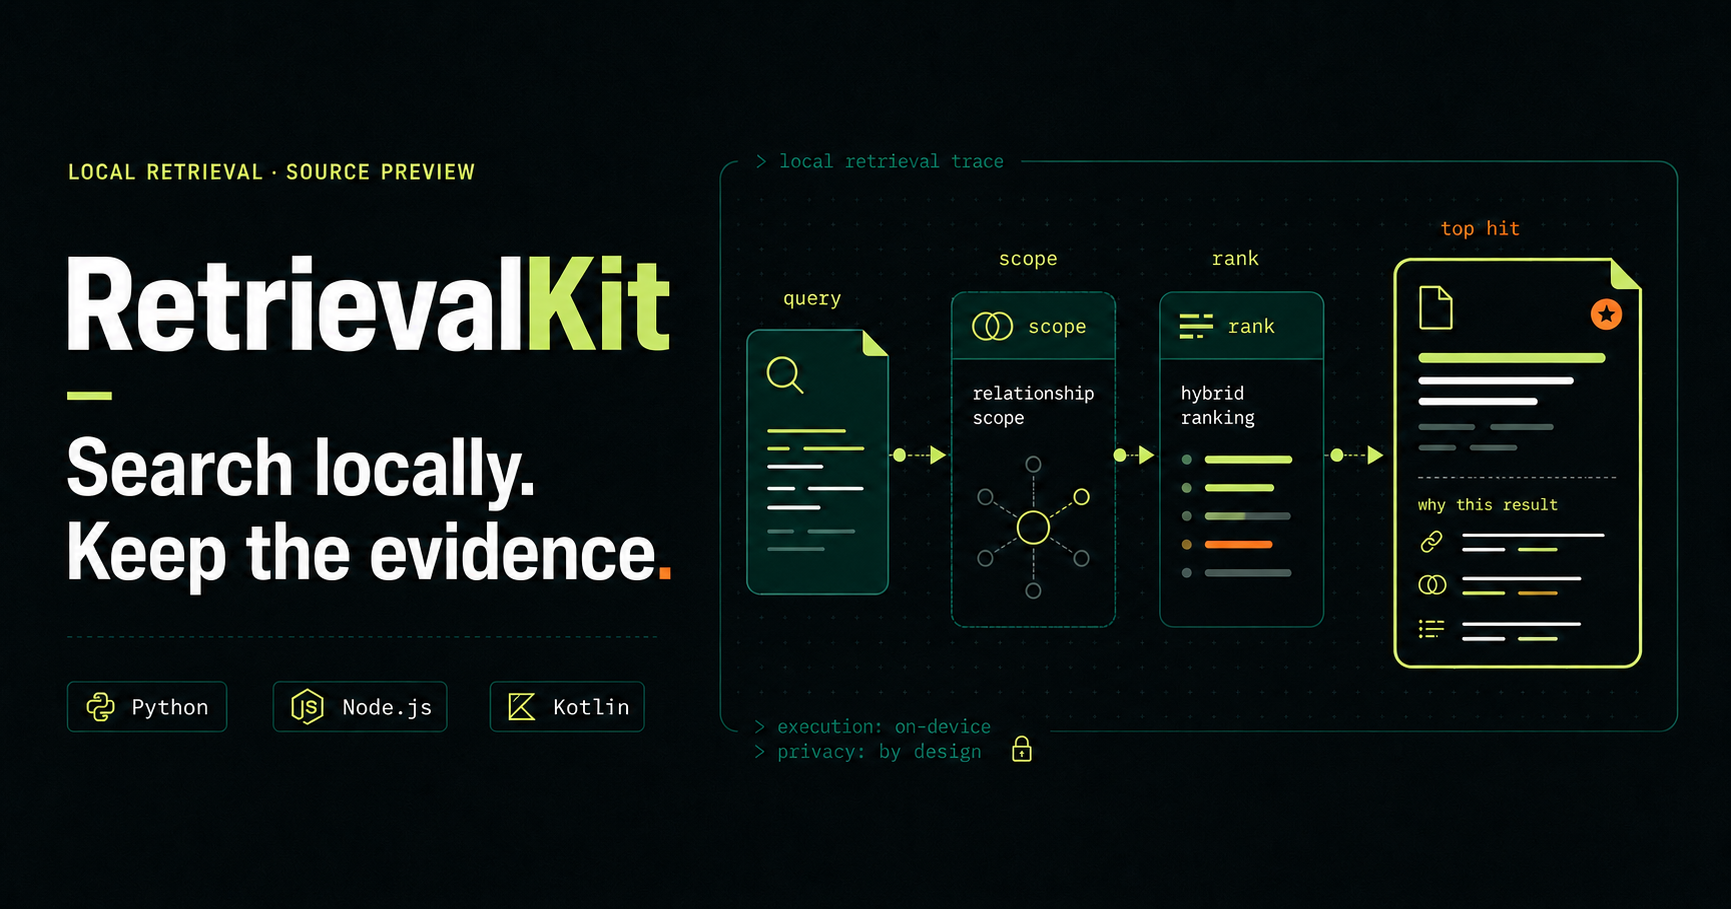
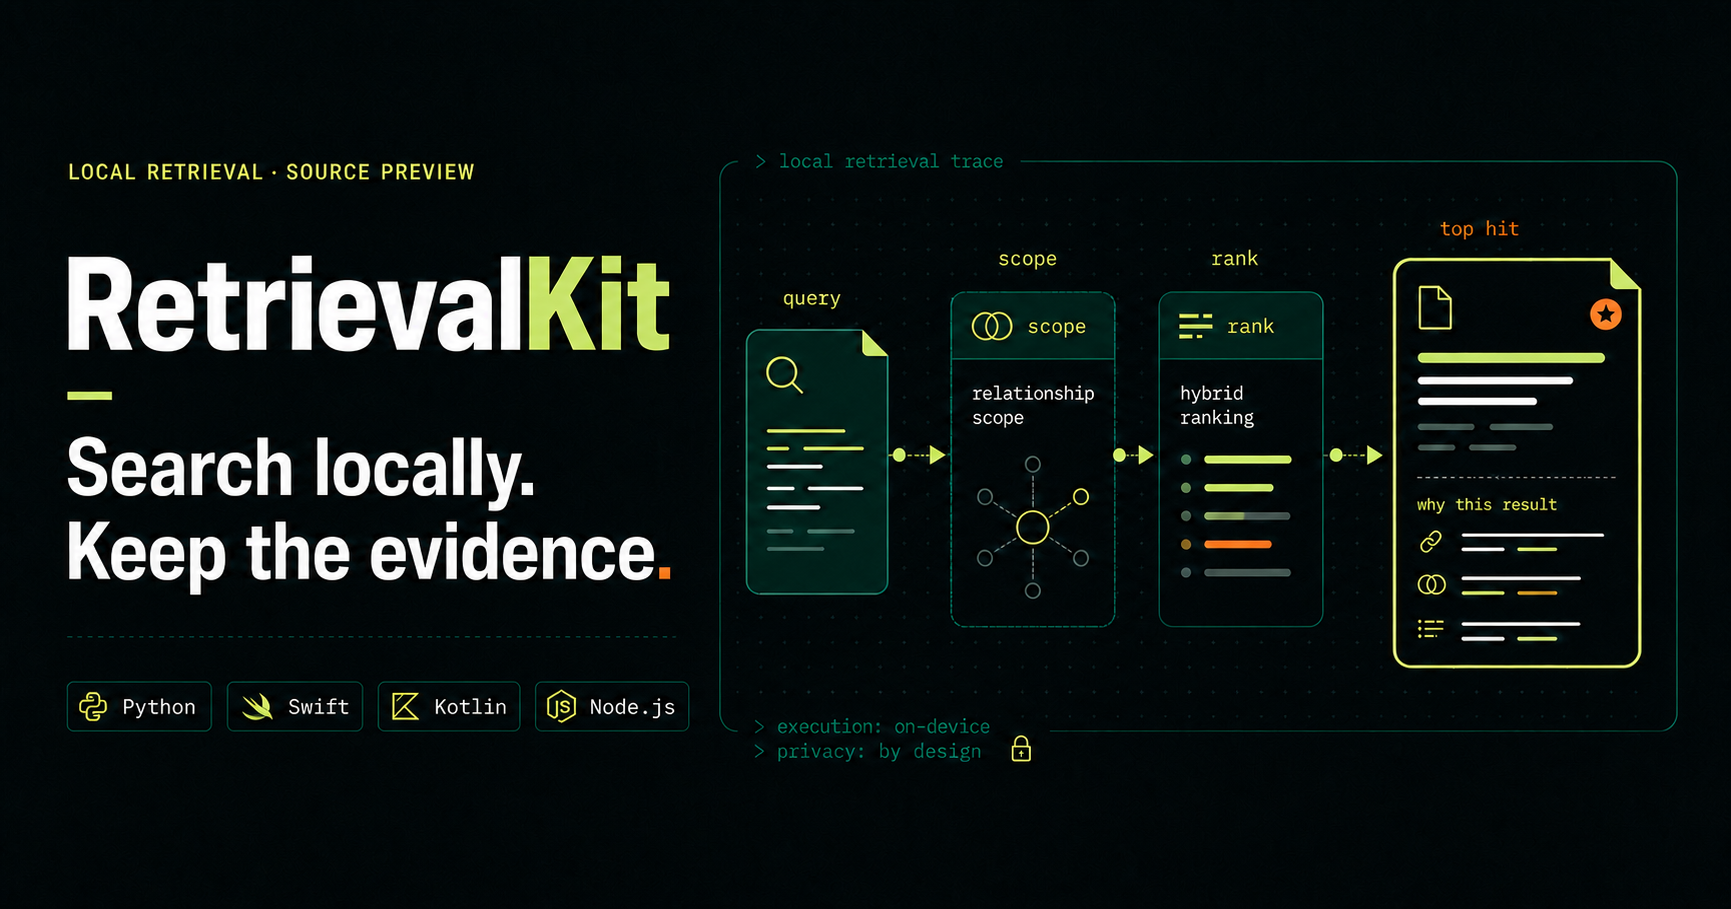
Add Swift to docs social preview

diff --git a/website/app/page.tsx b/website/app/page.tsx
@@ -200,7 +200,7 @@ export default function Home() {
           <p className="hero-lede">
             Exact vectors, BM25 keyword evidence, metadata filters, and
             relationship-scoped retrieval. One Rust core with native Python,
-            Node.js, and Kotlin APIs.
+            Swift, Kotlin, and Node.js APIs.
           </p>
           <div className="hero-actions">
             <a className="primary-button" href="#install">
